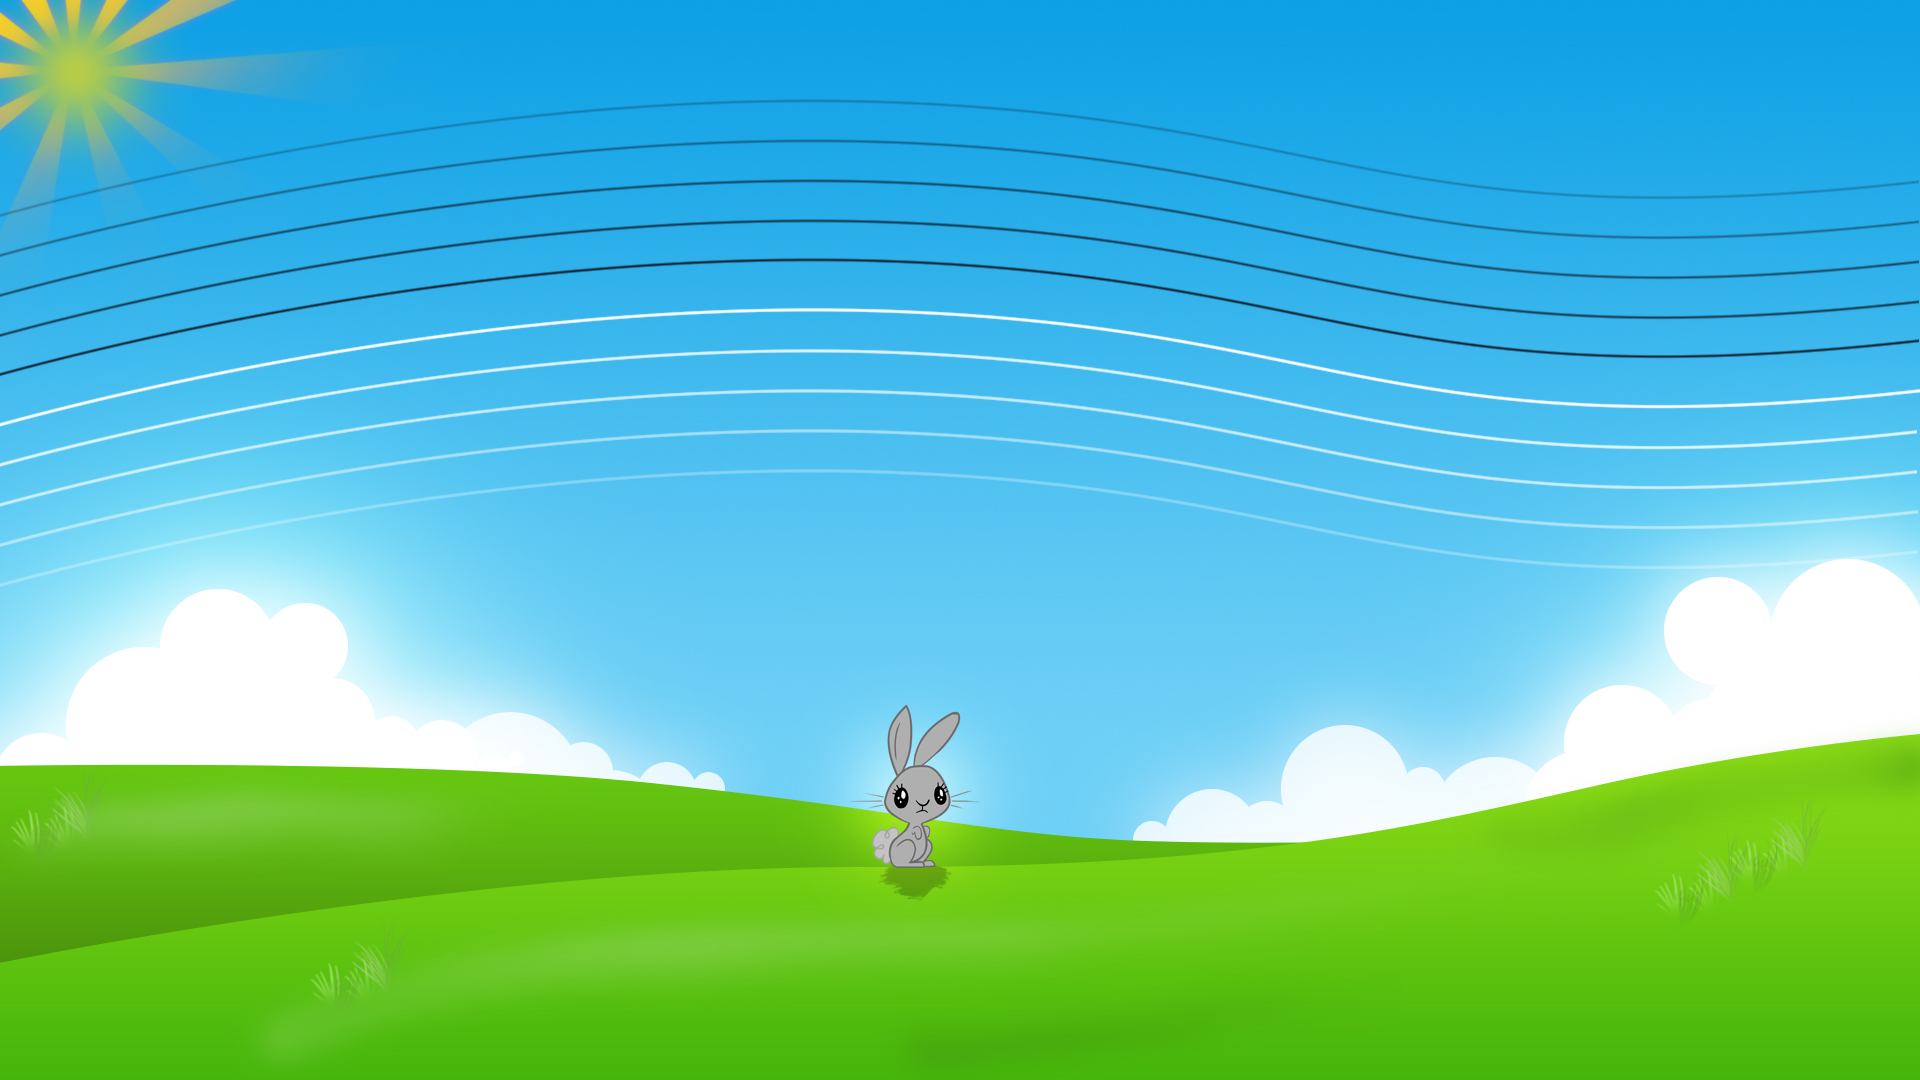
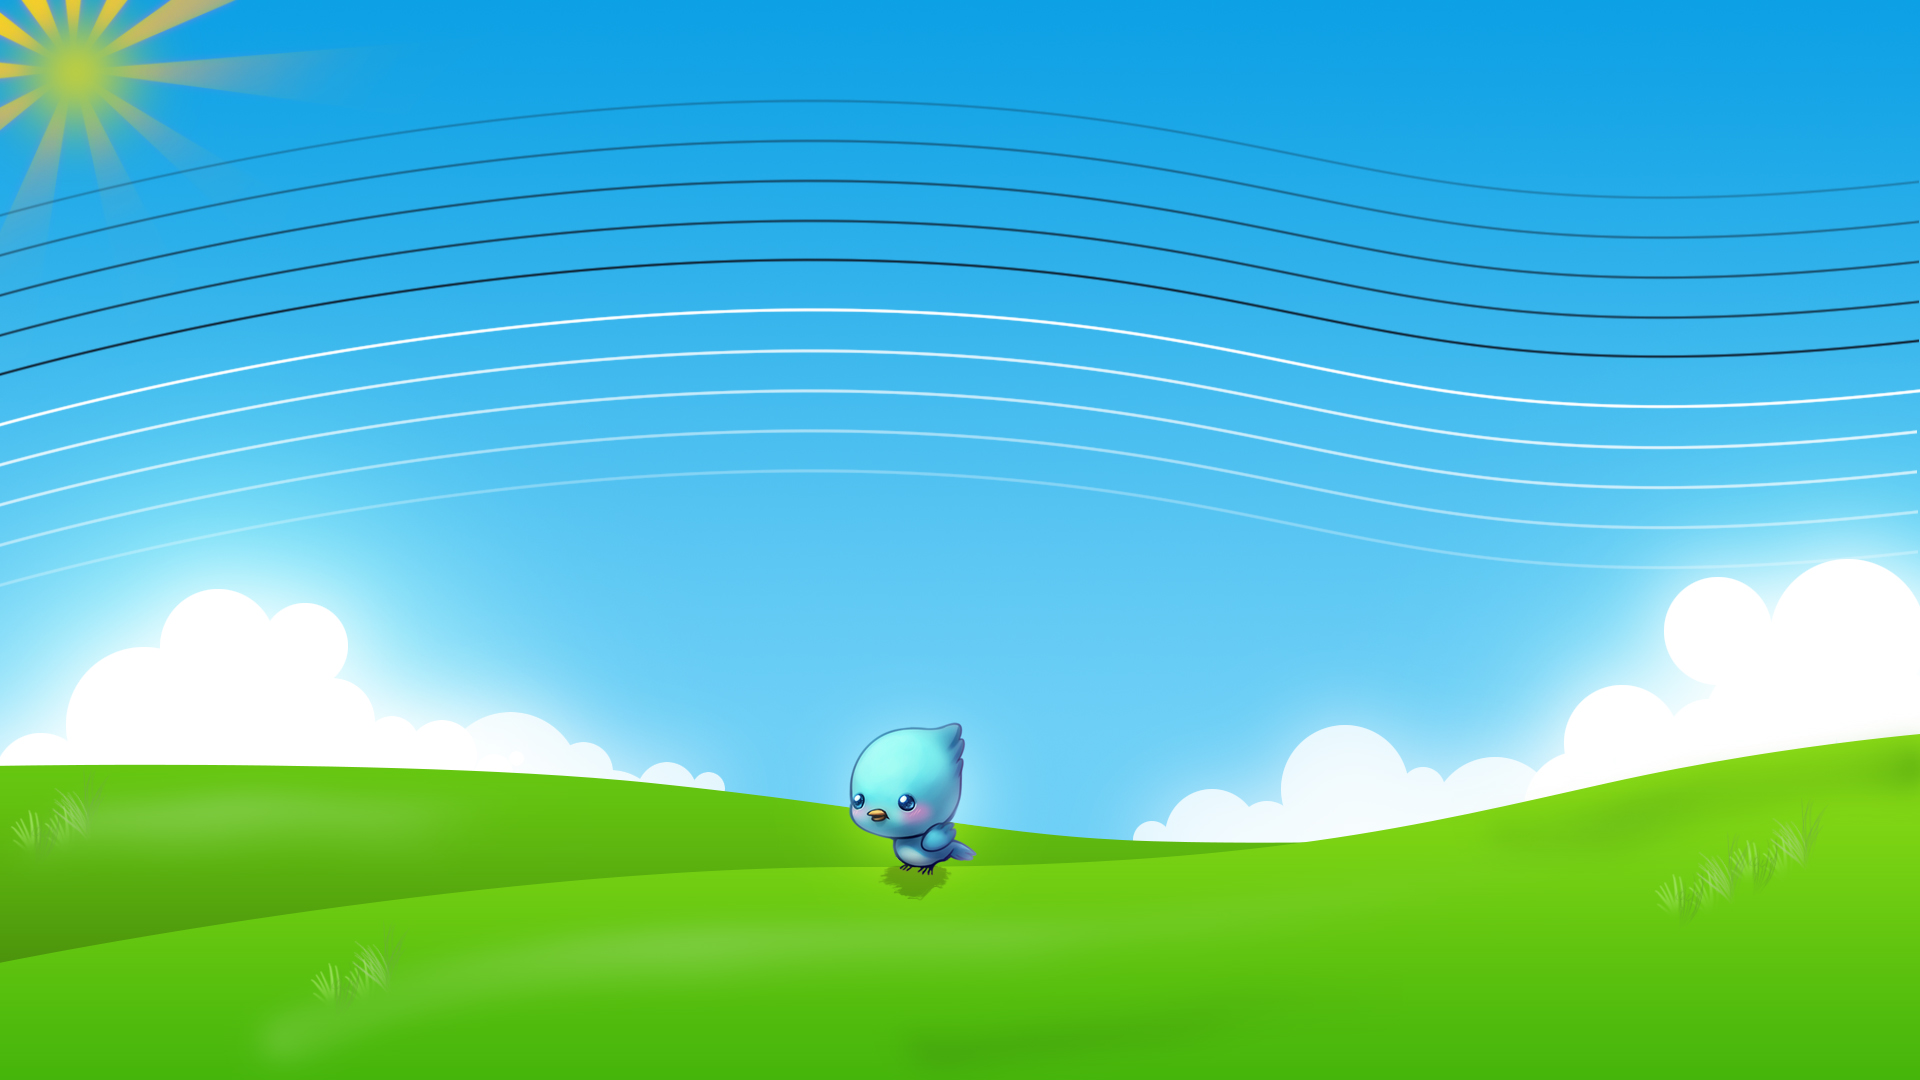
little bird

Changed region(s): [[0.4375, 0.6417, 0.5, 0.825]]

diff --git a/PopnTouchi2/PopnTouchi2/ViewModel/ThemeChooser.cs b/PopnTouchi2/PopnTouchi2/ViewModel/ThemeChooser.cs
@@ -37,6 +37,7 @@ namespace PopnTouchi2.ViewModel
         private Grid GridTheme2;
         private Border border3;
         private Grid GridTheme3;
+        public Grid Bird { get; set; }
 
         /// <summary>
         /// TODO
@@ -98,6 +99,14 @@ namespace PopnTouchi2.ViewModel
 
             GridTheme3.PreviewTouchDown += new EventHandler<TouchEventArgs>(GridTheme3_TouchDown);
 
+            Bird = new Grid();
+            Bird.Width = 140.0 * ratio;
+            Bird.Height = 165.0 * ratio;
+            Bird.Margin = new Thickness(0, 585.0 * ratio, 80.0 * ratio, 0);
+            Bird.Background = new SolidColorBrush(Colors.Transparent);
+
+            Bird.PreviewTouchDown += new EventHandler<TouchEventArgs>(Bird_TouchDown);
+
             Themes.Children.Add(border1);
             Themes.Children.Add(border2);
             Themes.Children.Add(border3);
@@ -153,6 +162,11 @@ namespace PopnTouchi2.ViewModel
                 sessionVM.Grid.Children.Remove(Grid);
                 sessionVM.Grid.Children.Remove(Themes);
                 return;
+            }
+
+            if (sessionVM.Session.ThemeID == 2)
+            {
+                sessionVM.Grid.Children.Remove(Bird);
             }
 
             sessionVM.Session.StopBackgroundSound();
@@ -226,7 +240,6 @@ namespace PopnTouchi2.ViewModel
             sessionVM.Grid.Children.Remove(sessionVM.TreeUp.Grid);
             sessionVM.Grid.Children.Remove(sessionVM.TreeDown.Grid);
 
-
             sessionVM.NbgVM = new NoteBubbleGeneratorViewModel(sessionVM.Session.NoteBubbleGenerator, sessionVM);
             sessionVM.MbgVM = new MelodyBubbleGeneratorViewModel(sessionVM.Session.MelodyBubbleGenerator, sessionVM);
             sessionVM.Bubbles = new ScatterView();
@@ -243,7 +256,7 @@ namespace PopnTouchi2.ViewModel
             sessionVM.Session.StaveTop.SetTheme(sessionVM.ThemeVM.Theme);
             sessionVM.Session.StaveBottom.SetTheme(sessionVM.ThemeVM.Theme);
 
-
+            sessionVM.Grid.Children.Add(Bird);
             sessionVM.Grid.Children.Add(sessionVM.NbgVM.Grid);
             sessionVM.Grid.Children.Add(sessionVM.MbgVM.Grid);
             sessionVM.Grid.Children.Add(sessionVM.Bubbles);
@@ -251,8 +264,16 @@ namespace PopnTouchi2.ViewModel
             sessionVM.Grid.Children.Add(sessionVM.Play_Button);
             sessionVM.Grid.Children.Add(sessionVM.Theme_Button);
 
+            Grid.SetZIndex(Bird, 0);
+
             sessionVM.Grid.Children.Remove(Grid);
             sessionVM.Grid.Children.Remove(Themes);
+        }
+
+        private void Bird_TouchDown(object sender, RoutedEventArgs e)
+        {
+            String effect = "whistle" + (new Random()).Next(1, 4).ToString();
+            AudioController.PlaySoundWithString(effect);
         }
 
         /// <summary>
@@ -268,6 +289,12 @@ namespace PopnTouchi2.ViewModel
                 sessionVM.Grid.Children.Remove(Themes);
                 return;
             }
+
+            if (sessionVM.Session.ThemeID == 2)
+            {
+                sessionVM.Grid.Children.Remove(Bird);
+            }
+
             sessionVM.Session.StopBackgroundSound();
             sessionVM.Session.Theme = new Theme3();
             sessionVM.Session.ThemeID = 3;

diff --git a/PopnTouchi2/PopnTouchi2/ViewModel/SessionViewModel.cs b/PopnTouchi2/PopnTouchi2/ViewModel/SessionViewModel.cs
@@ -221,7 +221,7 @@ namespace PopnTouchi2.ViewModel
             Grid.SetZIndex(Notes, 1);
             Grid.SetZIndex(NbgVM.Grid, 0);
             Grid.SetZIndex(MbgVM.Grid, 0);
-
+            
             SessionSVI.Content = Grid;
 
             ThemeChooser = new ThemeChooser(this);
@@ -407,6 +407,7 @@ namespace PopnTouchi2.ViewModel
             Grid.SetZIndex(Notes, 1);
             Grid.SetZIndex(NbgVM.Grid, 0);
             Grid.SetZIndex(MbgVM.Grid, 0);
+            Grid.SetZIndex(ThemeChooser.Bird, 0);
             
             double XCenter;
             foreach (Note note in sd.StaveTopNotes)
